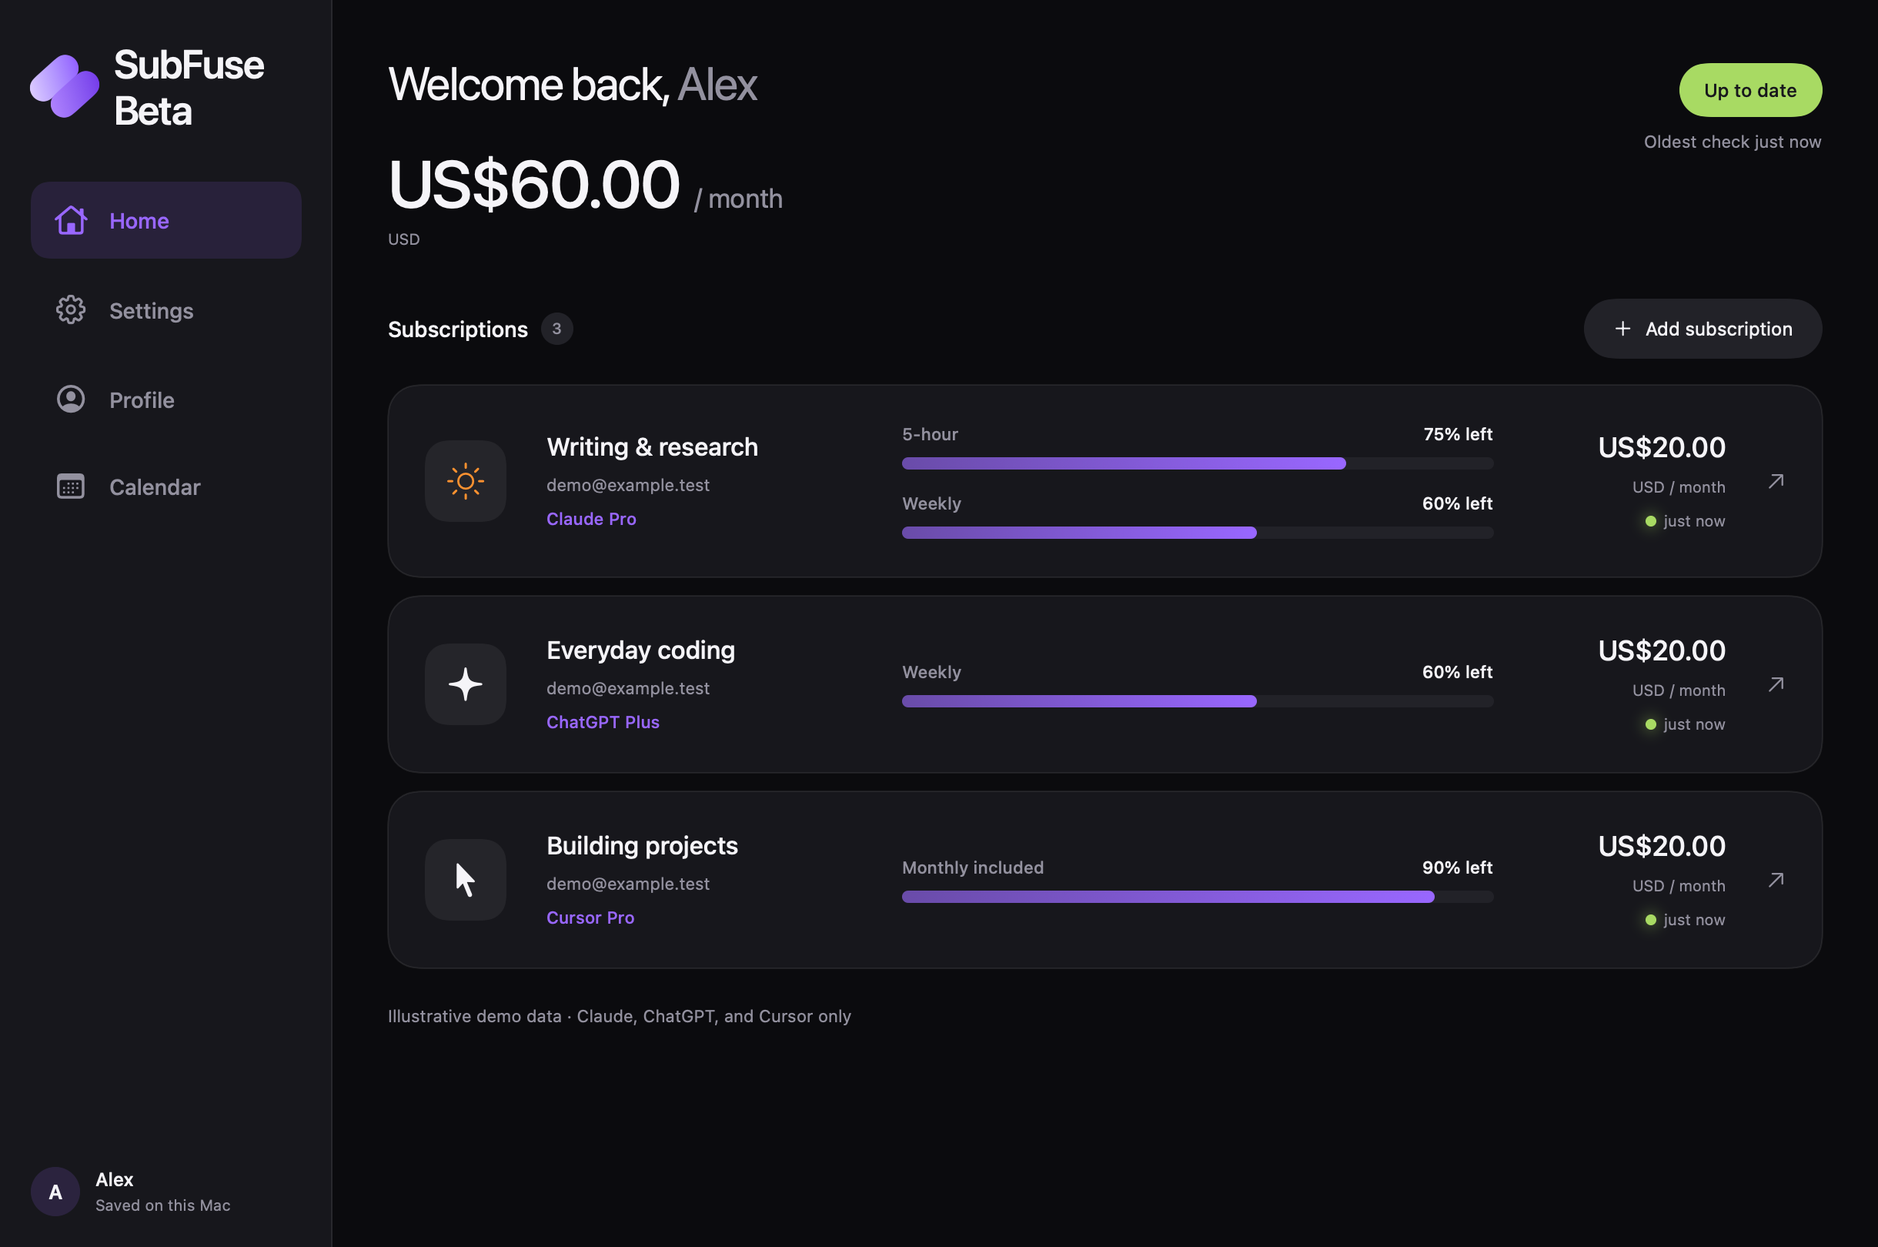
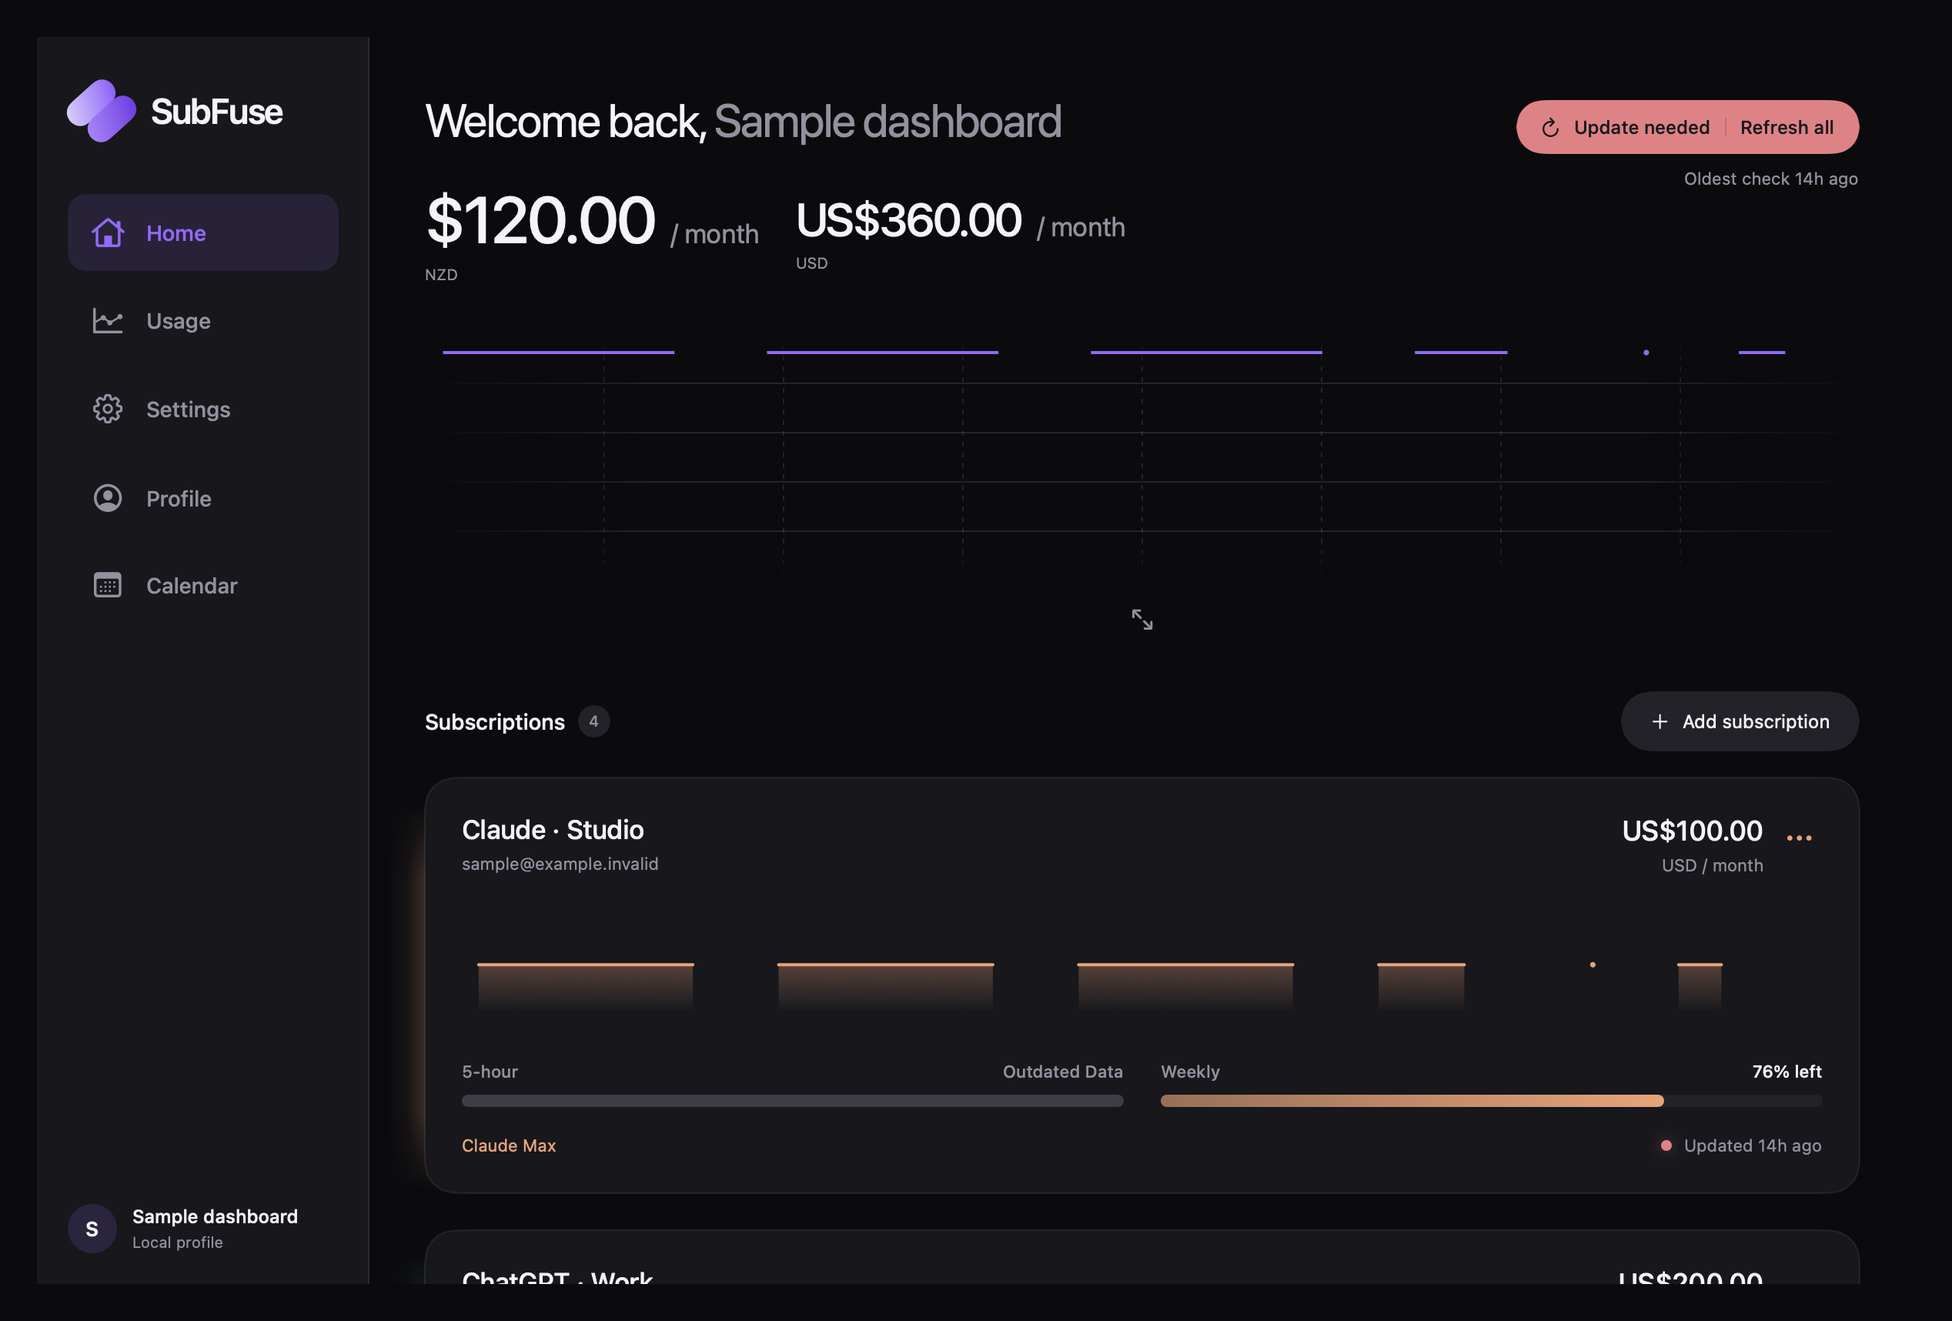
Introduce SubFuse 1.0 and document the Beta upgrade

diff --git a/README.md b/README.md
@@ -1,14 +1,20 @@
-<p align="center"><img src="assets/icon.png" width="110" alt="SubFuse Beta icon"></p>
-<h1 align="center">SubFuse Beta</h1>
+<p align="center"><img src="assets/icon.png" width="110" alt="SubFuse icon"></p>
+<h1 align="center">SubFuse</h1>
 <p align="center"><strong>Your AI subscriptions. One clear view.</strong><br>Usage, costs, and renewals together on your Mac.</p>
 <p align="center"><strong>Currently compatible with Claude, ChatGPT, Cursor, and Gemini via Antigravity.</strong><br>Free download · Apple Silicon · macOS 14 or later · Proprietary software</p>
-<p align="center"><a href="https://github.com/cohenfreeland/SubFuse-Beta/releases/tag/v0.15">Download SubFuse Beta 0.15</a> · <a href="https://github.com/cohenfreeland/SubFuse-Beta/issues">Report a problem</a> · <a href="PRIVACY.md">Privacy</a></p>
+<p align="center"><a href="https://github.com/cohenfreeland/SubFuse-Beta/releases/tag/v1.0">Download SubFuse 1.0</a> · <a href="https://github.com/cohenfreeland/SubFuse-Beta/issues">Report a problem</a> · <a href="PRIVACY.md">Privacy</a></p>
 
-SubFuse Beta is a native Mac app for people juggling multiple AI subscriptions. See how much allowance remains, when usage resets, and what you spend each month. Give each subscription a useful name, keep accounts organized in local profiles, and plan upcoming payments in a calendar.
+SubFuse is a native Mac app for people juggling multiple AI subscriptions. See how much allowance remains, when usage resets, and what you spend each month. Give each subscription a useful name, keep accounts organized in local profiles, and plan upcoming payments in a calendar.
 
-![SubFuse Beta dashboard with illustrative demo data](assets/dashboard.png)
+![SubFuse dashboard with illustrative demo data](assets/dashboard.png)
 
 ## What you can do
+
+- **See usage history at a glance**, with compact provider graphs, a clean expandable total graph, and rolling week, month, six-month and year views on Home.
+- **Compare observed usage** in Combined Usage with monthly, six-month and yearly views. Credits normalize supported weekly allowances: 100 credits represent one base-plan allowance. They are not provider tokens or money.
+- **Review subscription efficiency**, including observed used and unused allowance and eligible unused-value estimates for completed weekly periods. Incomplete history and unsupported plans stay explicitly unavailable.
+- **Build daily history** with a separate 9 AM collection task, with pause and removal controls in Settings. Manual refresh also records observations; periodic background refresh keeps current bars fresh.
+- **Keep the interface focused**, with three-dot subscription settings, brand-coloured accents and widgets, and matching renewal colours in the calendar.
 
 - **See remaining usage** across supported accounts, with reset times and clear indicators when readings need a refresh.
 - **Check saved usage on your desktop** with a small, medium, or large widget. Select a subscription to open its details in SubFuse.
@@ -21,13 +27,23 @@ SubFuse Beta is a native Mac app for people juggling multiple AI subscriptions. 
 - **Remember Claude and Cursor sign-ins** in separate website sessions for your local profiles and accounts.
 - **Copy a profile to another Mac** with a password-protected file that includes saved subscriptions and remembered Claude/Cursor website sessions. This is not sync.
 - **Choose light, dark, or system appearance.**
-- **Update inside the app** using **SubFuse Beta → Check for Updates…** or **Settings → App updates**.
+- **Update inside the app** using **SubFuse → Check for Updates…** or **Settings → App updates**.
+
+## Upgrading from SubFuse Beta
+
+In Beta 0.9 or later, choose **SubFuse → Check for Updates…** (the menu may still say SubFuse Beta), then install SubFuse 1.0. Profiles, subscriptions, remembered Claude/Cursor sign-ins, costs, renewal settings and background-refresh preferences use the same storage and app identity. Existing widgets keep their identity too. History begins with new readings; past usage is not backfilled.
+
+The updater may keep the existing **SubFuse Beta.app** filename in Applications. The app inside is SubFuse 1.0; check its displayed version. New downloads are named **SubFuse.app**. Keep one installed copy.
+
+Private V2/1.0 previews used separate storage. To retain a preview profile and its history, use its password-protected **Copy to another Mac…** export and restore the file in the full release. This does not overwrite Beta profiles. Provider sessions can expire and may need another sign-in.
+
+The public repository keeps its `SubFuse-Beta` address so installed apps continue receiving updates. The product is now SubFuse.
 
 ## Copy a profile to another Mac
 
 In **Profile**, choose **Copy to another Mac…** beside a saved profile. Choose where to save the `.subfuse` file, then enter and confirm a password. Copy that file yourself. On the destination Mac, create or open a local SubFuse profile, choose **Profile → Restore from another Mac…**, select the file and enter its password.
 
-- The file includes that one profile’s subscriptions, saved usage readings, costs and renewal dates, plus its remembered **Claude and Cursor website sessions**. Other profiles and their website data are left out.
+- The file includes that one profile’s subscriptions, saved usage readings, history, costs and renewal dates, plus its remembered **Claude and Cursor website sessions**. Other profiles and their website data are left out.
 - **ChatGPT and Gemini** subscriptions come back as saved rows. Their usage still refreshes through the ChatGPT and Antigravity desktop apps signed in on the destination Mac.
 - The restored profile is added beside existing profiles without switching to it. A sign-in already on that Mac is never overwritten; SubFuse reports the collision instead.
 - A provider can expire or revoke a session or ask you to sign in again. A live Claude/Cursor session transfer between two Macs has not yet been verified; release testing used synthetic stores and an isolated WebKit cookie marker.
@@ -49,23 +65,23 @@ These four providers are supported. Ordinary ChatGPT chat-message limits and Gem
 
 ## Install on your Mac
 
-1. Download **SubFuse-Beta-0.15-macOS-arm64.zip** from the [0.15 release](https://github.com/cohenfreeland/SubFuse-Beta/releases/tag/v0.15). GitHub's automatic “Source code” downloads contain this public documentation, not the application.
-2. Unzip it and move **SubFuse Beta.app** into **Applications** before opening it.
+1. Download **SubFuse-1.0-macOS-arm64.zip** from the [1.0 release](https://github.com/cohenfreeland/SubFuse-Beta/releases/tag/v1.0). GitHub's automatic “Source code” downloads contain this public documentation, not the application.
+2. Unzip it and move **SubFuse.app** into **Applications** before opening it.
 3. Open the app, choose **Sign in**, and create a local profile. This profile lives on your Mac; it is not a cloud account.
 4. Choose **Add subscription**, select Claude, ChatGPT, Cursor, or Gemini, and follow the connection steps.
 5. Open a subscription to enter its cost, currency, and renewal date.
 
-**This beta is not Apple-notarized or Developer ID signed.** macOS may initially block it. If you trust this download, first attempt to open it, then go to **System Settings → Privacy & Security → Open Anyway**, and confirm **Open**. See [Apple's opening instructions](https://support.apple.com/en-us/102445). Do not disable Gatekeeper globally. Managed Macs may not allow an exception.
+**This release is not Apple-notarized or Developer ID signed.** macOS may initially block it. If you trust this download, first attempt to open it, then go to **System Settings → Privacy & Security → Open Anyway**, and confirm **Open**. See [Apple's opening instructions](https://support.apple.com/en-us/102445). Do not disable Gatekeeper globally. Managed Macs may not allow an exception.
 
 Intel Macs, Windows, Linux, iPhone, and iPad are not supported.
 
 ## Saved usage widget
 
-Open the macOS widget gallery and add **SubFuse Beta → Saved usage**. Small shows the subscription in your active profile whose reading most needs attention. Medium and Large show more subscriptions in the same order. Select a subscription to open its detail sheet.
+Open the macOS widget gallery and add **SubFuse → Saved usage**. Small shows the subscription in your active profile whose reading most needs attention. Medium and Large show more subscriptions in the same order. Select a subscription to open its detail sheet.
 
-The dark widgets use the dashboard’s Fuse mark, provider icons, and violet bars to show how much allowance remains. A dashed track marks expired or unavailable readings. The small widget gives a single current reading more space.
+The dark widgets use the dashboard’s Fuse mark, provider icons, and provider-coloured bars to show how much allowance remains. A dashed track marks expired or unavailable readings. The small widget gives a single current reading more space.
 
-![Small, medium, and large dark SubFuse widgets showing sample subscriptions](assets/saved-usage-widgets.png)
+![SubFuse desktop widget with illustrative sample subscriptions](assets/saved-usage-widgets.png)
 
 The widget reads usage already saved by the app. A freshness dot can change while SubFuse is closed, and a reading becomes **Outdated Data** when its saved reset time passes. Open the app to refresh the reading.
 
@@ -99,7 +115,15 @@ Only the active profile is refreshed. Manual refreshes and connection windows ta
 
 Turn the toggle off to stop scheduled and in-progress automatic work. Your selected frequency is retained. Automatic refresh makes periodic requests to your providers; preferences and readings stay on this Mac.
 
-![Background usage refresh settings, off by default](assets/background-refresh.png)
+![SubFuse settings with separate background refresh and daily history controls](assets/background-refresh.png)
+
+## History, credits and efficiency
+
+History uses comparable provider readings rather than a continuous activity log. A first reading establishes a baseline. Missing observations, unknown resets, counter decreases and plan changes create gaps; they are not treated as zero. Credits compare allowance consumption using supported plan multipliers, not identical computing power across providers. ChatGPT Pro 100 is supported at 10×.
+
+Efficiency estimates require usable weekly observations. Monetary estimates additionally require a known, stable manually entered price and an eligible allowance pool; they are not billing records or promised savings. Separate currencies remain separate. See the [FAQ](https://subfuse.cohenfreeland.chatgpt.site/faq.html) for calculation details.
+
+Daily history collection is separate from periodic background refresh. SubFuse registers a macOS task for 9 AM local time that can launch it quietly while closed. Collection requires a logged-in Mac and available sessions/services, does not wake the Mac, and can be delayed by sleep. Settings can pause collection or remove the task; reopening registers the task again, while a saved pause stays in effect. Missed data is not backfilled.
 
 ## Staying up to date
 
@@ -107,15 +131,15 @@ Usage refresh is separate from the app-update checks described here.
 
 Version 0.9 and later include the built-in updater. It checks GitHub for updates while the app is running; automatic checks can be turned off in Settings. You choose when to download, install, and restart. Update packages are verified with SubFuse's signing key before extraction. These update signatures are separate from Apple's notarization.
 
-If you use 0.8 or earlier, install 0.15 once manually to get the updater. Quit the old app before replacing it. Existing saved profiles carry forward automatically. Keep one installed copy in Applications for future updates.
+If you use 0.8 or earlier, install 1.0 manually to get the updater. Quit the old app before replacing it. Existing saved profiles carry forward automatically. Keep one installed copy in Applications for future updates.
 
-## A few things to know during the beta
+## A few things to know
 
 Usage is a saved snapshot, not a continuous live meter. Choose **Update usage** for a fresh reading. **Nothing's changed** confirms that you have not used an account since its last reading; it does not contact the provider. After a reset passes, update the account before relying on the bar.
 
 Costs, billing dates, and trial dates are entered by you. SubFuse does not collect invoices, process payments, cancel subscriptions, or purchase credits. Calendar entries are estimates based on your schedule. On-demand spend and usage credits are not treated as included quota.
 
-Provider websites and local account services can change. A connection failure keeps the last saved reading. This beta is still evolving, and not every plan or workspace has been tested with a live account.
+Provider websites and local account services can change. A connection failure keeps the last saved reading. Not every plan or workspace has been tested with a live account.
 
 ## Your data stays under your control
 
@@ -127,6 +151,6 @@ Local profiles help organize accounts; they are not password-protected security 
 
 [Open an issue](https://github.com/cohenfreeland/SubFuse-Beta/issues/new/choose) with your app version, macOS version, provider, and steps to reproduce. Remove account emails, cookies, tokens, and personal information from screenshots and logs.
 
-SubFuse Beta is free to download and use, with proprietary source code. This public repository holds product documentation and release information only. See [LICENSE](LICENSE) and [third-party notices](THIRD-PARTY-NOTICES.txt).
+SubFuse is free to download and use, with proprietary source code. This public repository holds product documentation and release information only. See [LICENSE](LICENSE) and [third-party notices](THIRD-PARTY-NOTICES.txt).
 
 SubFuse is an independent project and is not affiliated with or endorsed by Anthropic, OpenAI, Google, Cursor, or xAI. Product names belong to their respective owners.

diff --git a/PRIVACY.md b/PRIVACY.md
@@ -1,6 +1,6 @@
 # Privacy notes
 
-SubFuse Beta stores profiles, subscription labels, account display labels, hashed account identifiers, usage snapshots, manually entered costs, renewal schedules, and per-profile background refresh preferences and attempt summaries in a local `state.json` file. Passwords and authentication tokens are not stored in that JSON file.
+SubFuse stores profiles, subscription labels, account display labels, hashed account identifiers, usage snapshots, timestamped history observations, plan mappings, price-change markers, collection preferences, manually entered costs, renewal schedules, and per-profile background refresh preferences and attempt summaries in a local `state.json` file. Passwords and authentication tokens are not stored in that JSON file.
 
 When macOS grants shared storage access, SubFuse keeps the live file at `SubFuse/state.json` inside the `group.app.subfuse.local` container. The app verifies the migrated copy and retains `~/Library/Application Support/SubFuse/state.json` as a backup. Application Support remains the live location if the container is unavailable or migration fails.
 
@@ -27,9 +27,17 @@ Use **Forget sign-in** to remove a Claude or Cursor website session while retain
 GitHub issues are public. Do not post authentication data or personal account information there.
 
 
+## Daily history
+
+Daily history stores local observations and calculation inputs alongside the profile. SubFuse registers a macOS LaunchAgent for 9 AM local time; it may quietly launch the app when closed, including an initial setup attempt. Only the active profile is collected, using existing provider sessions. The Mac must be logged in; sleep can delay collection, and the task does not wake it. No conversations are read and no missing history is invented.
+
+Daily collection is separate from opt-in periodic background refresh. Pause it in **Settings → Daily usage history**, or remove its daily task. Reopening the app registers the task again, but a saved pause remains effective. Manual refresh remains available. History and its derived efficiency estimates remain local.
+
+SubFuse 1.0 uses Beta's existing app identity, storage locations and website-store identifiers. Private previews remain separate unless you explicitly export and restore a profile.
+
 ## Portable profile files
 
-When you choose **Copy to another Mac…**, SubFuse reads only the chosen profile and its referenced Claude/Cursor website-store directories. The resulting `.subfuse` file contains the profile’s subscriptions, saved readings, billing details and those website sessions. ChatGPT and Gemini desktop credentials are not included. SubFuse never uploads the file; you choose its destination and copy it yourself. There is no account or sync service.
+When you choose **Copy to another Mac…**, SubFuse reads only the chosen profile and its referenced Claude/Cursor website-store directories. The resulting `.subfuse` file contains the profile’s subscriptions, saved readings, usage history, billing details and those website sessions. ChatGPT and Gemini desktop credentials are not included. SubFuse never uploads the file; you choose its destination and copy it yourself. There is no account or sync service.
 
 The archive uses AES-GCM authenticated encryption with a password-derived key, a random salt and PBKDF2-HMAC-SHA256 at 200,000 iterations. The archive is created with owner-only permissions. The password is used for the operation, then cleared from the form; it is not stored in profile JSON, Keychain, logs or the filename. There is no password recovery. Anyone with the file and password can use included sessions until the provider expires or revokes them.
 

diff --git a/CHANGELOG.md b/CHANGELOG.md
@@ -1,5 +1,17 @@
 # Release notes
 
+## 1.0 — SubFuse
+
+- The full SubFuse release succeeds SubFuse Beta, using the existing updater and preserving profiles, remembered sign-ins, costs, renewals, refresh preferences and widget identity.
+- Add daily usage history, compact subscription graphs, an expandable Home graph and Combined Usage with comparable credits. Include supported ChatGPT Pro 100 mapping.
+- Review weekly allowance efficiency and eligible unused-value estimates, with gaps and unsupported data kept explicit.
+- Refine the dark interface, provider accents, renewal colours and desktop widgets; keep details in each subscription's three-dot settings.
+- Retain periodic background refresh and add a separate daily history task with pause/removal controls.
+- Carry history in encrypted portable profile files. Private preview data remains separate and can be explicitly exported/restored.
+- Includes the audited history, scheduling, storage validation and session-lifetime fixes from the completed private version.
+
+Existing Beta 0.9+ users can choose **Check for Updates…**. History starts with fresh readings; past activity cannot be reconstructed. Requires Apple Silicon and macOS 14+. The app is ad hoc signed, not Apple Developer ID signed or notarized.
+
 ## 0.15 — portable session archives
 
 - Copy one local profile to a password-protected `.subfuse` file, then restore it beside existing profiles on another Mac.
